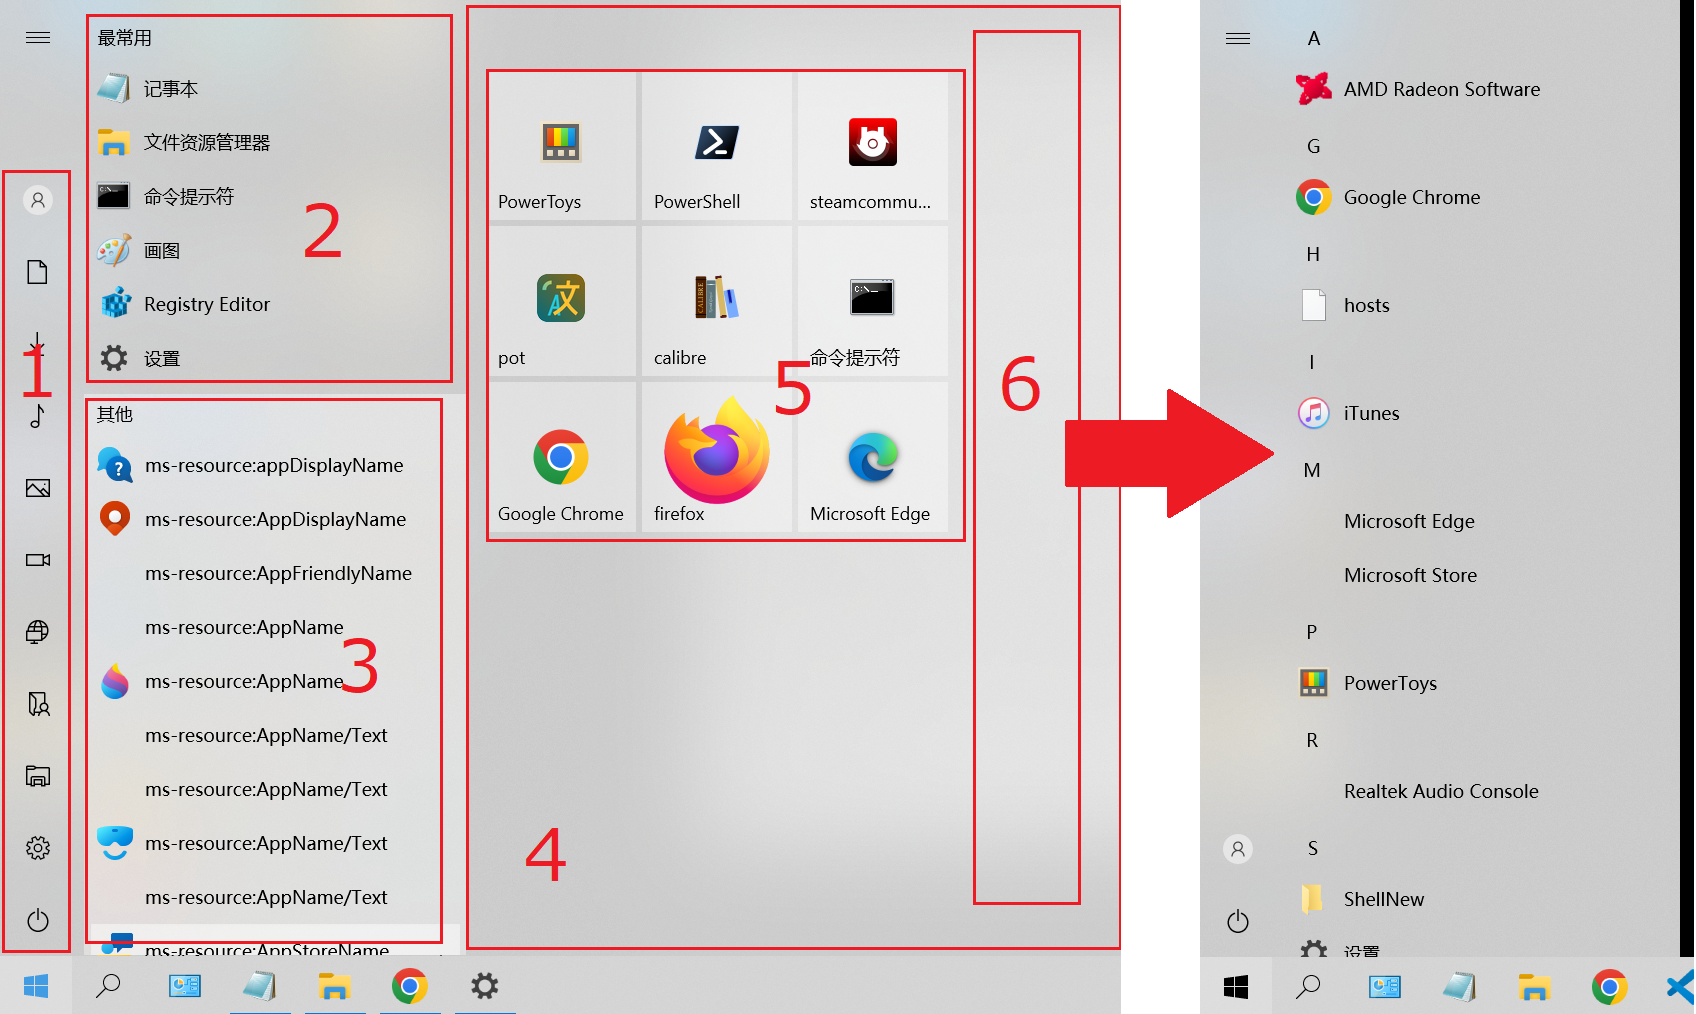
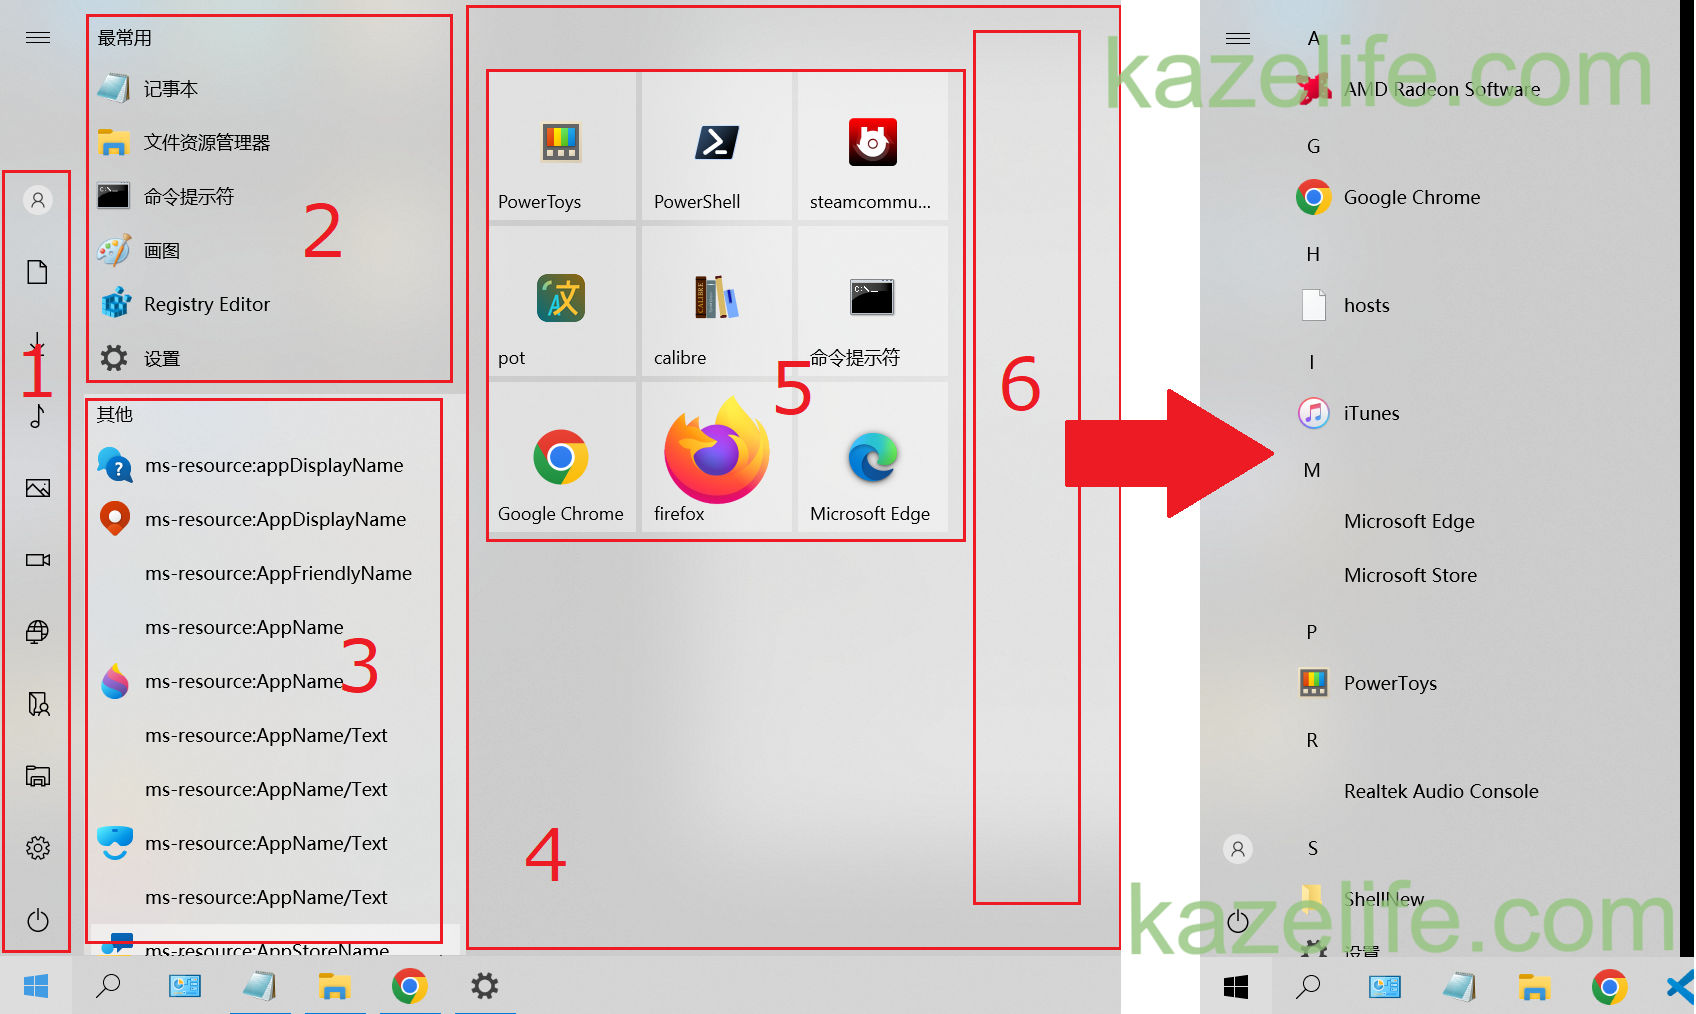
article 003

Changed region(s): [[0.6562, 0.0306, 1.0, 0.1223], [0.6562, 0.856, 1.0, 0.9477]]

diff --git a/taskbar.html b/taskbar.html
@@ -1,0 +1,147 @@
+<!DOCTYPE html>
+<html lang="zh-CN">
+<head>
+  <meta charset="UTF-8">
+  <meta name="viewport" content="width=device-width, initial-scale=1.0">
+  <title>Win10任务栏极简</title>
+  <link rel="stylesheet" href="article.css">
+</head>
+<body>
+  <div class="box1">
+    <div class="title">
+      <h1>kazelife.com</h1>
+      <h3>minimal tips site</h3>
+    </div>
+  </div>
+  <div class="box2">
+    <ul class="navbar">
+      <li><a href="/">Home</a></li>
+      <li><a href="posts.html" style="color: #fff;">Posts</a></li>
+      <li><a href="about.html">About</a></li>
+    </ul>
+  </div>
+  <div class="breadcrumb">
+    <ul>
+      <li><a href="/">主页</a> &#62; </li>
+      <li><a href="posts.html">文章</a> &#62; </li>
+      <li><a href="taskbar.html">Win10任务栏极简</a></li>
+    </ul>
+  </div>
+  <div class="box3">
+    <div class="article">
+      <div class="content">
+        <h1>自定义Win10任务栏</h1>
+        <div class="date">
+          <div class="date-published">发布日期：<time datetime="2024-05-08">24/05/08</time></div>
+          <div class="date-modified">最后更新：<time datetime="2024-05-08">24/05/08</time></div>
+        </div>
+        <h2 id="pic">【一图流】</h2>
+        <img class="img1" src="windows/taskbar/task-bar.png" alt="task-bar" style="width: 100%;">
+        <h2 id="moji">【文字版】</h2>
+        <h2 id="1">1. 任务栏设置在哪</h2>
+        <ul>
+          <li>右键任务栏→任务栏设置</li>
+          <li>找不到任务栏时，可用以下方式进入：
+            <br>Win+I→个性化→任务栏</li>
+        </ul>
+        <h2 id="2">2. 锁定任务栏</h2>
+        <ul>
+          <li>开=锁定，能防止误触</li>
+          <li>关=可拖动，允许拖动到上下左右和拉伸高度</li>
+        </ul>
+        <h2 id="3">3. 在桌面模式下自动隐藏任务栏</h2>
+        <ul>
+          <li>开=桌面模式下，只在鼠标移过去时才显示任务栏</li>
+        </ul>
+        <h2 id="4">4. 在平板模式下自动隐藏任务栏</h2>
+        <ul>
+          <li>开=平板模式下，只在鼠标移过去时才显示任务栏</li>
+        </ul>
+        <p style="margin-left: 4%; font-weight: bold; font-size: 1.2rem;">※怎么确认自己是桌面模式还是平板模式？</p>
+        <ul>
+          <p>方法1：<br>不支持触控的电脑默认为桌面模式</p>
+          <p>方法2：<br>Win+I→系统→平板电脑→更改其他平板设置<br>可以在这查看电脑是否支持触控</p>
+        </ul>
+        <h2 id="5">5. 使用小任务栏按钮</h2>
+        <ul>
+          <li>开=任务栏变矮，上面的图标变小</li>
+        </ul>
+        <h2 id="6">6. 当你将鼠标移动到任务栏未端的"显示桌面"按钮时，使用"速览"预览桌面</h2>
+        <ul>
+          <li>开=不用点击，光是鼠标移到右下角就能预览桌面</li>
+          <p>是预览，不是切换，切换还是要点击的。</p>
+        </ul>
+        <h2 id="7">7. 当我右键单击"开始"按钮或按下 Windows 键+X 时，在菜单中将命令提示符替换为 Windows PowerShell</h2>
+        <ul>
+          <li>开="开始"右键/Win+X→"命令提示符"和"命令提示符(管理员)"→打开的是PowerShell</li>
+          <li>关="开始"右键/Win+X→"命令提示符"和"命令提示符(管理员)"→打开的是cmd</li>
+        </ul>
+        <p style="margin-left: 4%; font-weight: bold; font-size: 1.2rem;">※在哪里设置这种情况下打开的PowerShell的路径？</p>
+        <p><a href="/">可查看文章【怎么更改通过Win+X运行的PowerShell的路径？】</a></p>
+        <h2 id="8">8. 在任务栏按钮上显示角标</h2>
+        <ul>
+          <li>开=右下角显示角标^</li>
+          <p>（试了下关也能显示，没搞懂）</p>
+        </ul>
+        <h2 id="9">9. 任务栏在屏幕上的位置</h2>
+        <ul>
+          <li>可切换的位置有：上下左右</li>
+        </ul>
+        <h2 id="10">10. 合并任务栏按钮</h2>
+        <ul>
+          <li>始终合并按钮=开多个窗口时，不显示具体文件名称，只占一个图标位置</li>
+          <li>从不=开多个窗口时，显示每个文件名称，占一长排位置</li>
+          <li>任务栏已满时=最小化窗口占满任务栏空间时才进行自动合并</li>
+        </ul>
+        <h2 id="11">11. 如何自定义任务栏?</h2>
+        <ul>
+          <li>跳转到官方攻略</li>
+        </ul>
+        <h2 id="12">12. 选择哪些图标显示在任务栏上</h2>
+        <ul>
+          <li>开=显示在任务栏上<br>(不仅是系统图标，也包括"最小化到托盘"的第三方应用)</li>
+          <li>关=隐藏进角标内<br>(并不会不显示，想要不显示需要在"13. 打开或关闭系统图标"中设置)<br>※也可直接上下拖动图标来控制隐藏还是显示。</li>
+        </ul>
+        <h2 id="13">13. 打开或关闭系统图标</h2>
+        <ul>
+          <li>开=显示</li>
+          <li>关=不显示</li>
+        </ul>
+        <h2 id="14">14. 在任务栏上显示新闻和兴趣</h2>
+        <ul>
+          <li>开=右边冒出半屏的广告和右下角的天气</li>
+        </ul>
+        <h2 id="15">15. 在任务栏上显示联系人</h2>
+        <ul>
+          <li>开=右下角冒出的人脉图标</li>
+        </ul>
+      </div>
+    </div>
+    <div class="sidebar">
+      <div class="menu">
+        <h1>极简任务栏</h1>
+        <h2><a href="taskbar.html#pic">【图片版】</a></h2>
+        <h2><a href="taskbar.html#moji">【文字版】</a></h2>
+        <ol>
+          <li><a href="taskbar.html#1">任务栏设置在哪</a></li>
+          <li><a href="taskbar.html#2">锁定任务栏</a></li>
+          <li><a href="taskbar.html#3">在桌面模式下自动隐藏任务栏</a></li>
+          <li><a href="taskbar.html#4">在平板模式下自动隐藏任务栏</a></li>
+          <li><a href="taskbar.html#5">使用小任务栏按钮</a></li>
+          <li><a href="taskbar.html#6">当你将鼠标移动到任务栏未端的"显示桌面"按钮时，使用"速览"预览桌面</a></li>
+          <li><a href="taskbar.html#7">当我右键单击"开始"按钮或按下 Windows 键+X 时，在菜单中将命令提示符替换为 Windows PowerShell</a></li>
+          <li><a href="taskbar.html#8">在任务栏按钮上显示角标</a></li>
+          <li><a href="taskbar.html#9">任务栏在屏幕上的位置</a></li>
+          <li><a href="taskbar.html#10">合并任务栏按钮</a></li>
+          <li><a href="taskbar.html#11">如何自定义任务栏?</a></li>
+          <li><a href="taskbar.html#12">选择哪些图标显示在任务栏上</a></li>
+          <li><a href="taskbar.html#13">打开或关闭系统图标</a></li>
+          <li><a href="taskbar.html#14">在任务栏上显示新闻和兴趣</a></li>
+          <li><a href="taskbar.html#15">在任务栏上显示联系人</a></li>
+        </ol>
+        <p class="back-to-top"><a href="#">回到顶部</a></p>
+      </div>
+    </div>
+  </div>
+</body>
+</html>

diff --git a/article.css b/article.css
@@ -9,7 +9,7 @@
 .breadcrumb a:visited {color: #333;}
 .breadcrumb a:hover {color: #ff6347;}
 
-.date {display: flex;}
+.date {display: flex; margin-top: 1%;}
 .date-published {margin-right: 6%;}
 
 .box1 {
@@ -114,6 +114,10 @@
   margin-bottom: 6%;
 }
 
+.menu h2 {
+  margin-bottom: 3%;
+}
+
 .menu li {
   font-size: 1.2rem;
   margin-left: -10%;
@@ -123,4 +127,10 @@
 .menu a:link {color: #5A4034;text-decoration: none;}
 .menu a:visited {color: #5A4034;}
 .menu a:hover {color: #fff;background-color: #4976f5;}
+
+.back-to-top {
+  font-size: 1.5rem;
+  font-weight: bold;
+  margin-top: 1250%;
+}
 

diff --git a/start-menu.html b/start-menu.html
@@ -97,7 +97,7 @@
           <li>进入应用和磁贴lnk位置：
             <p>C:\ProgramData\Microsoft\Windows\Start Menu\Programs</p>
             <p>C:\Users\Administrator\AppData\Roaming\Microsoft\Windows\Start Menu\Programs</p>
-            <p>两个位置都是。</p>
+            <p>注意：Users可能显示为用户，Administrator需替换为你的用户名</p>
           <li>在这里可以进行的操作：</li>
             <p>删除：可删除已安装软件的lnk和已卸载软件的残留文件夹和lnk</p>
             <p>添加：添加任何你想放进去的lnk</p>

diff --git a/posts.html b/posts.html
@@ -32,7 +32,7 @@
         <ul>
           <li><a href="windows-search.html">搜索界面</a></li>
           <li><a href="start-menu.html">开始菜单</a></li>
-          <li>3</li>
+          <li><a href="taskbar.html">任务栏</a></li>
           <li>4</li>
           <li>5</li>
           <li>6</li>
